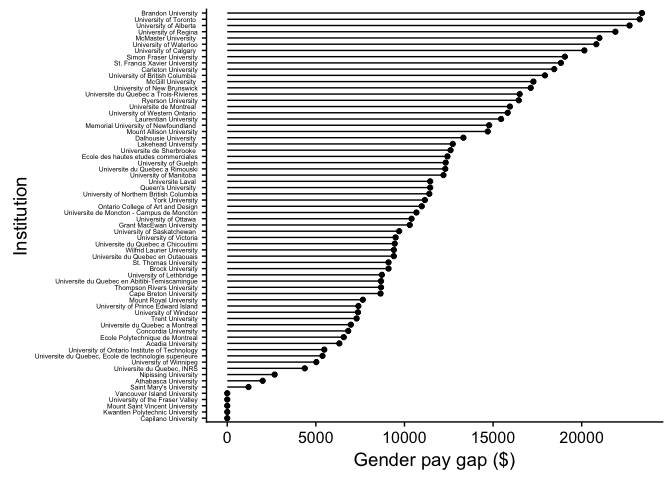
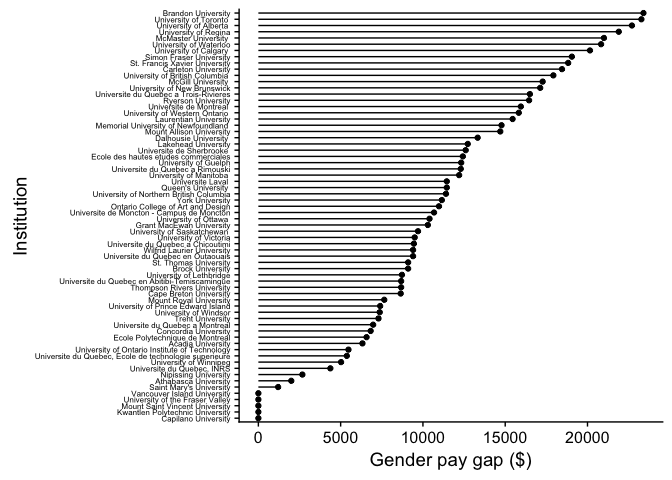
Commit from RStudio

diff --git a/statscan.md b/statscan.md
@@ -100,7 +100,7 @@ p1 <- ggplot(data=median_sum, aes(x=reorder(University, dif), y=as.numeric(dif))
                    xend=reorder(University, dif), 
                    y=0, 
                    yend=as.numeric(dif)))+
-      theme(axis.text.y = element_text(size=5))
+      theme(axis.text.y = element_text(size=6))
 p1
 ```
 
@@ -118,7 +118,7 @@ p2 <- ggplot() +
                    xend=reorder(University, dif), 
                    y=1.0, 
                    yend=as.numeric(percent)))+
-      theme(axis.text.y = element_text(size=5))
+      theme(axis.text.y = element_text(size=6))
 p2
 ```
 
